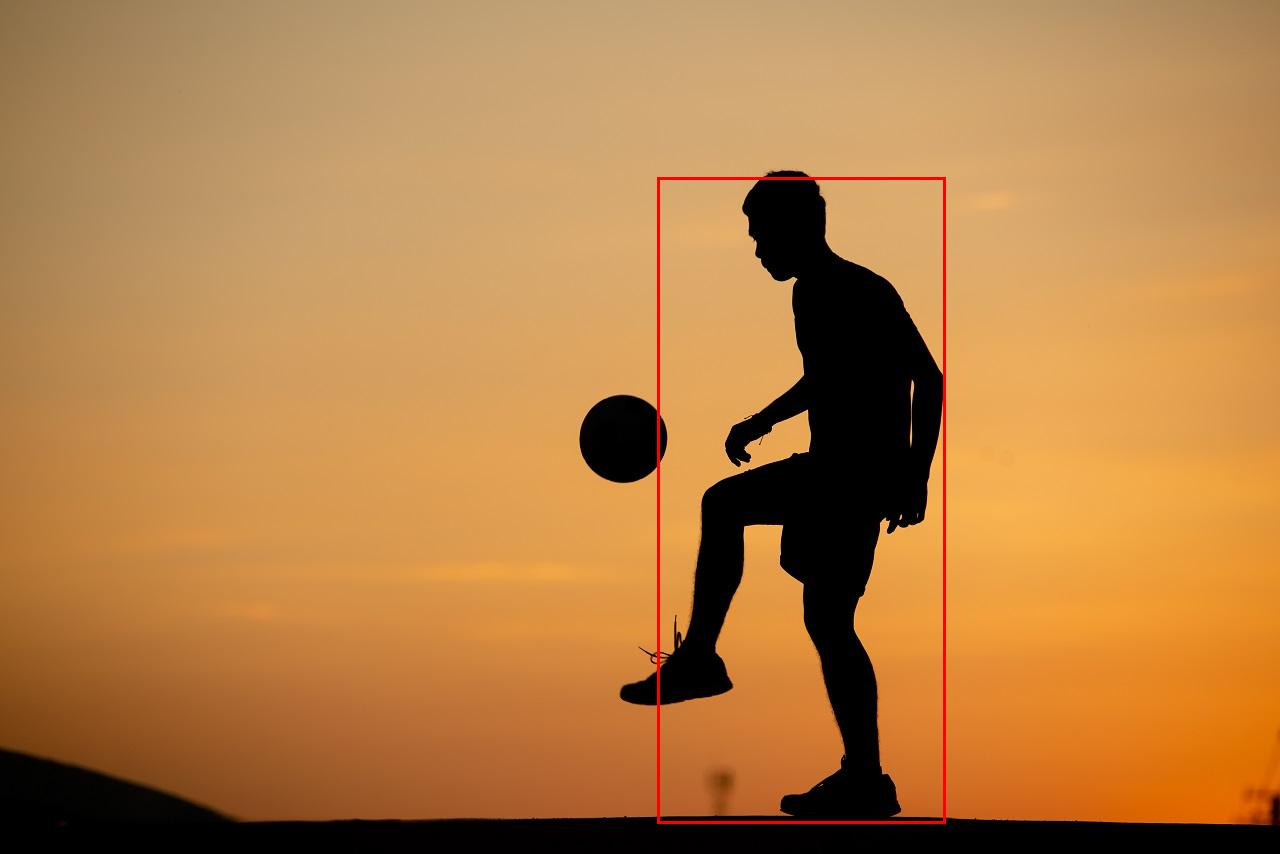
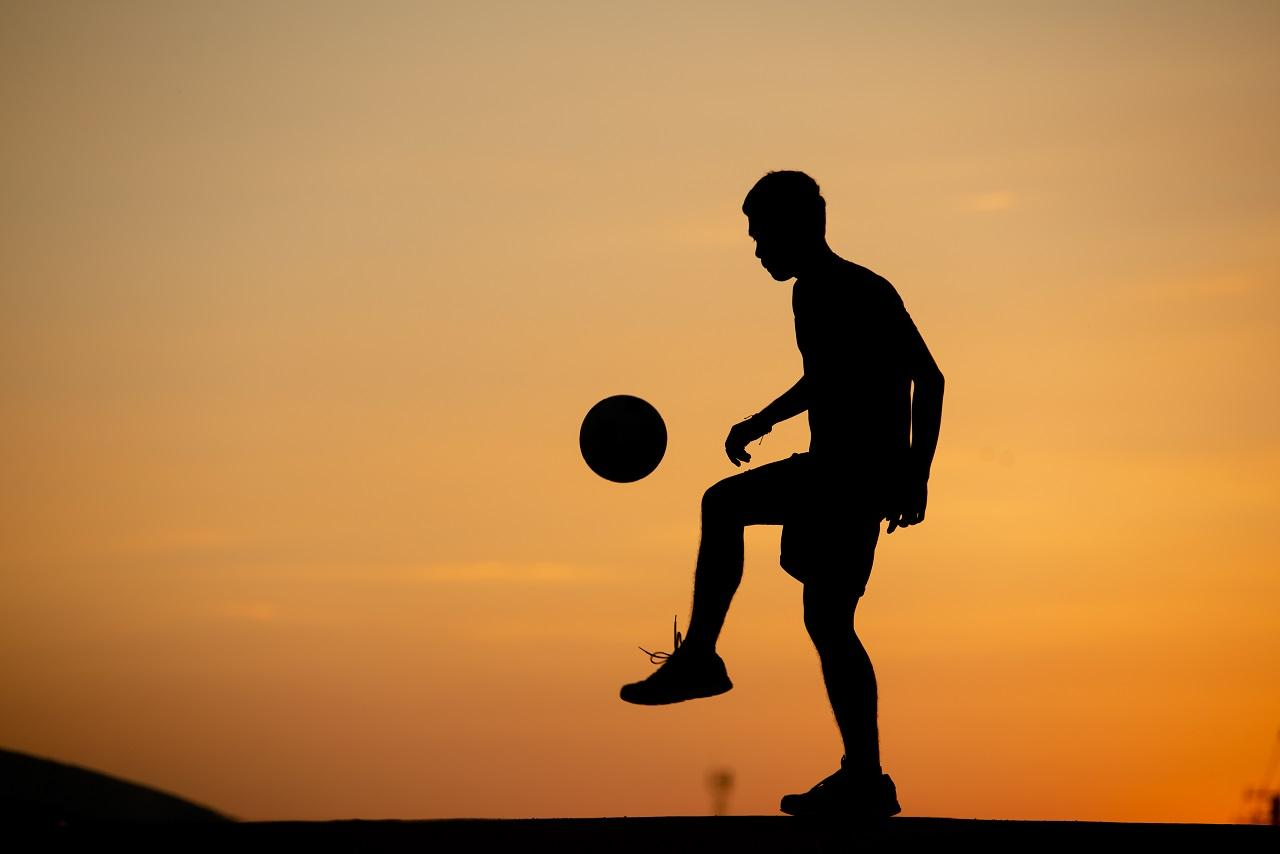
docs: fix README to show actual OPD output for silhouette (rejection)
The previous README showed outdated OPD results for img_001. Updated to
reflect current model behavior: OPD rejects the silhouette person (known
multi-task distillation limitation), while SFT Box detects it correctly.

Changed region(s): [[0.5, 0.1827, 0.75, 0.548], [0.5, 0.6393, 0.75, 0.9742], [0.7188, 0.4567, 0.75, 0.4871]]

diff --git a/README.md b/README.md
@@ -91,12 +91,12 @@ Structured thinking with accurate box on the silhouette.
 1. **Analyzing the request**
 The user asks me to locate the person in this image.
 2. **Object grounding**
-I see a <|ref|>person<|/ref|><|box|>[[513,208,738,963]]<|/box|>.
+After carefully scanning the entire image,
+I do not see any person present.
 3. **Conclusion**
-The person is located at the specified coordinates.
-The person is located at [[513,208,738,963]].
+There is no person in this image.
 ```
-Preserves SFT Box quality — nearly identical box coordinates.
+Known limitation: OPD loses silhouette detection after multi-task distillation (SFT Box handles it correctly).
 </td>
 <td><img src="test-images/results/opd_img_001.jpg" width="250"></td>
 </tr>

diff --git a/README_ZH.md b/README_ZH.md
@@ -91,12 +91,12 @@ The person is located at [[511,208,738,963]].
 1. **Analyzing the request**
 The user asks me to locate the person in this image.
 2. **Object grounding**
-I see a <|ref|>person<|/ref|><|box|>[[513,208,738,963]]<|/box|>.
+After carefully scanning the entire image,
+I do not see any person present.
 3. **Conclusion**
-The person is located at the specified coordinates.
-The person is located at [[513,208,738,963]].
+There is no person in this image.
 ```
-保持 SFT Box 质量——框坐标几乎一致。
+已知限制：多任务蒸馏后剪影检测退化（SFT Box 能正确检测）。
 </td>
 <td><img src="test-images/results/opd_img_001.jpg" width="250"></td>
 </tr>
